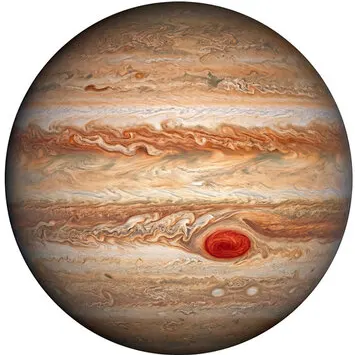
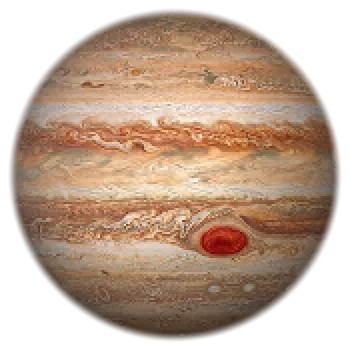
Space screen: planet photos cleaned up - edges fade out (inset past the backdrop, no white pixels on Jupiter's rim), night side baked in, drawn with high-quality resampling and no hard clip. tools/planet.ps1 makes them from a photo

diff --git a/Source/PluginEditor.cpp b/Source/PluginEditor.cpp
@@ -505,29 +505,34 @@ void TesseractButton::paintSpace (juce::Graphics& g, juce::Rectangle<float> scre
 
     // Jupiter and Mars, drifting a few pixels over minutes, lit from the upper
     // left and kept faint like the rest of the screen.
-    auto hasPhoto = [] ([[maybe_unused]] const char* fileName)
-    {
-       #if ZERO_SPACE_IMAGES
-        return spaceImage (fileName).isValid();
-       #else
-        return false;
-       #endif
-    };
-    auto planet = [&] (float x, float y, float radius, float drift, float opacity, float night, auto&& surface)
+    // The owner's photos (Resources/Space) when built in: their edges fade out and
+    // the night side is baked into the image (a clip here left a hard, jagged rim
+    // with backdrop pixels), so they are only drawn. Drawn planets otherwise.
+    auto planet = [&] (float x, float y, float radius, float drift, [[maybe_unused]] const char* photoFile, auto&& surface)
     {
         const auto centre = juce::Point<float> (screen.getX() + (x + 0.01f * std::sin (t * drift)) * screen.getWidth(),
                                                 screen.getY() + (y + 0.008f * std::cos (t * drift * 0.7f)) * screen.getHeight());
         const auto disc = juce::Rectangle<float> (2.0f * radius, 2.0f * radius).withCentre (centre);
-        g.beginTransparencyLayer (opacity);
+       #if ZERO_SPACE_IMAGES
+        if (const auto image = spaceImage (photoFile); image.isValid())
+        {
+            g.setOpacity (0.88f); // drawImage takes the last colour's alpha (a faint star's) otherwise
+            g.setImageResamplingQuality (juce::Graphics::highResamplingQuality); // a 350 px photo shrunk to ~70 px
+            g.drawImage (image, disc.expanded (radius * 0.035f), juce::RectanglePlacement::stretchToFit); // its fade starts at 0.965 r
+            g.setOpacity (1.0f);
+            return;
+        }
+       #endif
+        g.beginTransparencyLayer (0.5f);
         {
             juce::Graphics::ScopedSaveState clipped (g);
             juce::Path round;
-            round.addEllipse (disc.reduced (radius * 0.02f)); // inside the photos' edge, no rim of their backdrop
+            round.addEllipse (disc);
             g.reduceClipRegion (round);
             surface (disc);
             // Night side: dark towards the lower right, a soft lit edge upper left.
             juce::ColourGradient shade (juce::Colours::white.withAlpha (0.12f), centre.x - radius * 0.55f, centre.y - radius * 0.55f,
-                                        juce::Colours::black.withAlpha (night), centre.x + radius * 0.9f, centre.y + radius * 0.9f, true);
+                                        juce::Colours::black.withAlpha (0.85f), centre.x + radius * 0.9f, centre.y + radius * 0.9f, true);
             shade.addColour (0.45, juce::Colours::transparentBlack);
             g.setGradientFill (shade);
             g.fillEllipse (disc);
@@ -535,27 +540,9 @@ void TesseractButton::paintSpace (juce::Graphics& g, juce::Rectangle<float> scre
         g.endTransparencyLayer();
     };
 
-    // The owner's photos (Resources/Space, kept out of git) when built in; drawn ones otherwise.
-    auto photo = [&] ([[maybe_unused]] const char* fileName, [[maybe_unused]] juce::Rectangle<float> d)
-    {
-       #if ZERO_SPACE_IMAGES
-        if (const auto image = spaceImage (fileName); image.isValid())
-        {
-            g.setOpacity (1.0f); // drawImage takes the last colour's alpha (a faint star's)
-            g.drawImage (image, d, juce::RectanglePlacement::stretchToFit);
-            return true;
-        }
-       #endif
-        return false;
-    };
-
     const auto h = screen.getHeight();
-    // Photos clearer than the drawn planets, with a lighter night side (Mars's photo has its own).
-    const auto jupiterPhoto = hasPhoto ("jupiter.png"), marsPhoto = hasPhoto ("mars.png");
-    planet (0.13f, 0.30f, 0.15f * h, 0.031f, jupiterPhoto ? 0.85f : 0.5f, jupiterPhoto ? 0.55f : 0.85f, [&] (juce::Rectangle<float> d)
+    planet (0.13f, 0.30f, 0.15f * h, 0.031f, "jupiter.png", [&] (juce::Rectangle<float> d)
     {
-        if (photo ("jupiter.png", d))
-            return;
         // Jupiter: cream zones and rust-brown belts, the Great Red Spot below the middle.
         const juce::Colour zone (0xffe8d6b4), belt (0xffb07a4f), darkBelt (0xff8c5a3a), pale (0xffd8bd92);
         g.setColour (zone);
@@ -584,10 +571,8 @@ void TesseractButton::paintSpace (juce::Graphics& g, juce::Rectangle<float> scre
         g.setColour (juce::Colour (0xffc0573a));
         g.fillEllipse (spot);
     });
-    planet (0.86f, 0.70f, 0.045f * h, 0.023f, marsPhoto ? 0.9f : 0.55f, marsPhoto ? 0.3f : 0.85f, [&] (juce::Rectangle<float> d)
+    planet (0.86f, 0.70f, 0.045f * h, 0.023f, "mars.png", [&] (juce::Rectangle<float> d)
     {
-        if (photo ("mars.png", d))
-            return;
         // Mars: rust red, darker uplands, a white polar cap.
         g.setColour (juce::Colour (0xffc1502e));
         g.fillRect (d);
